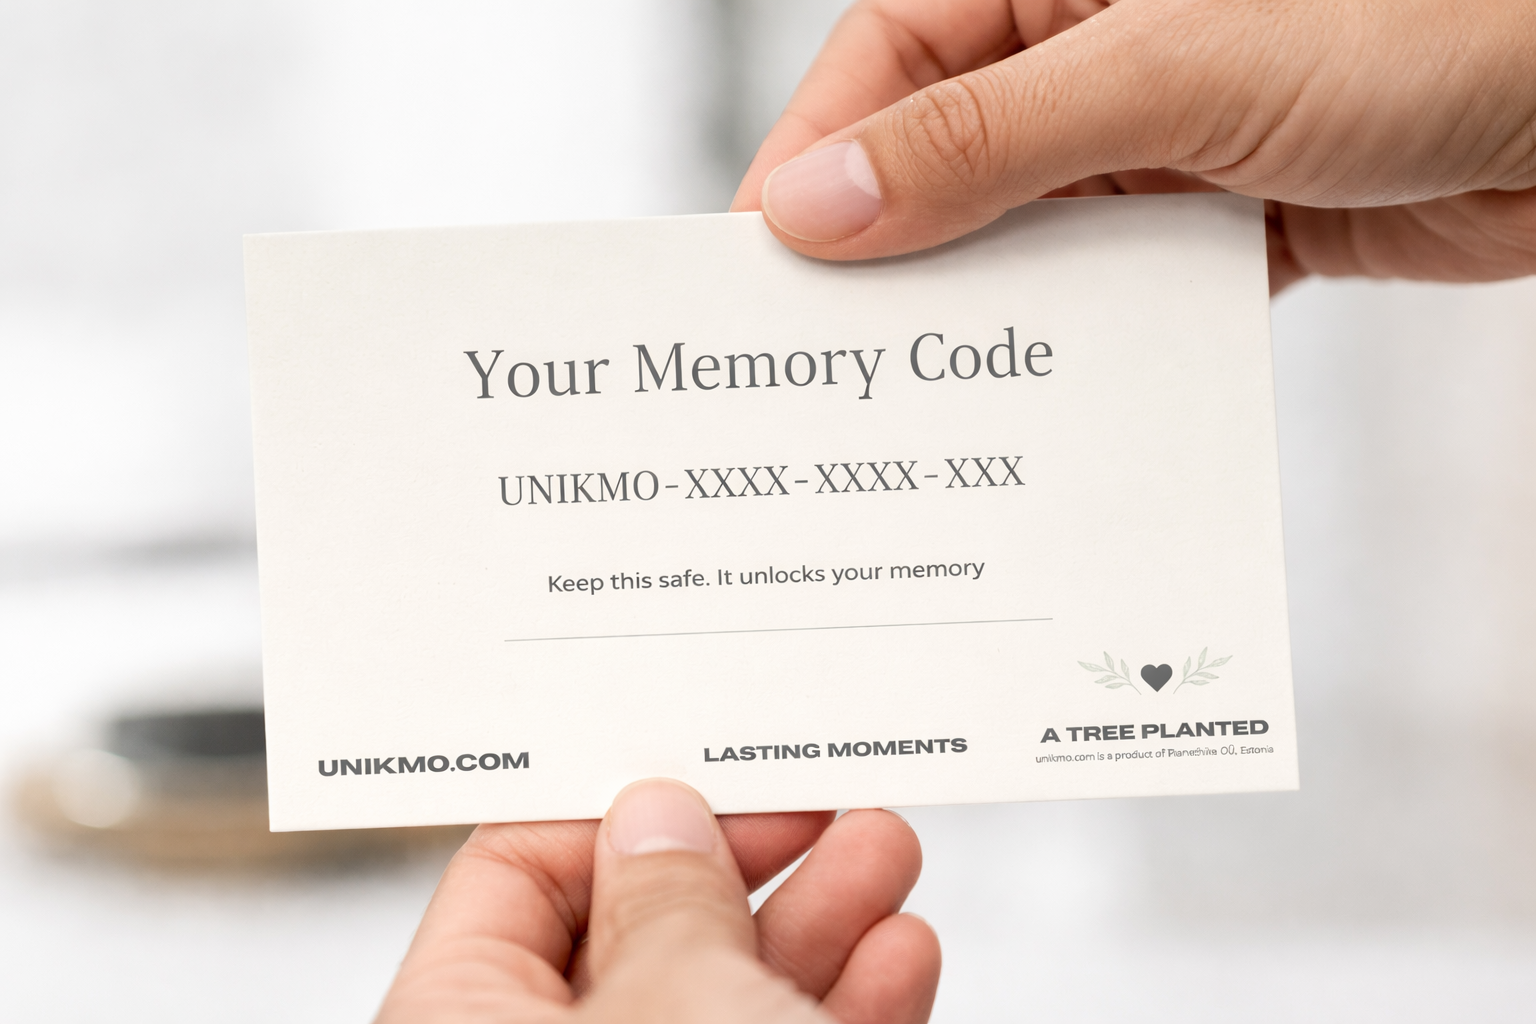
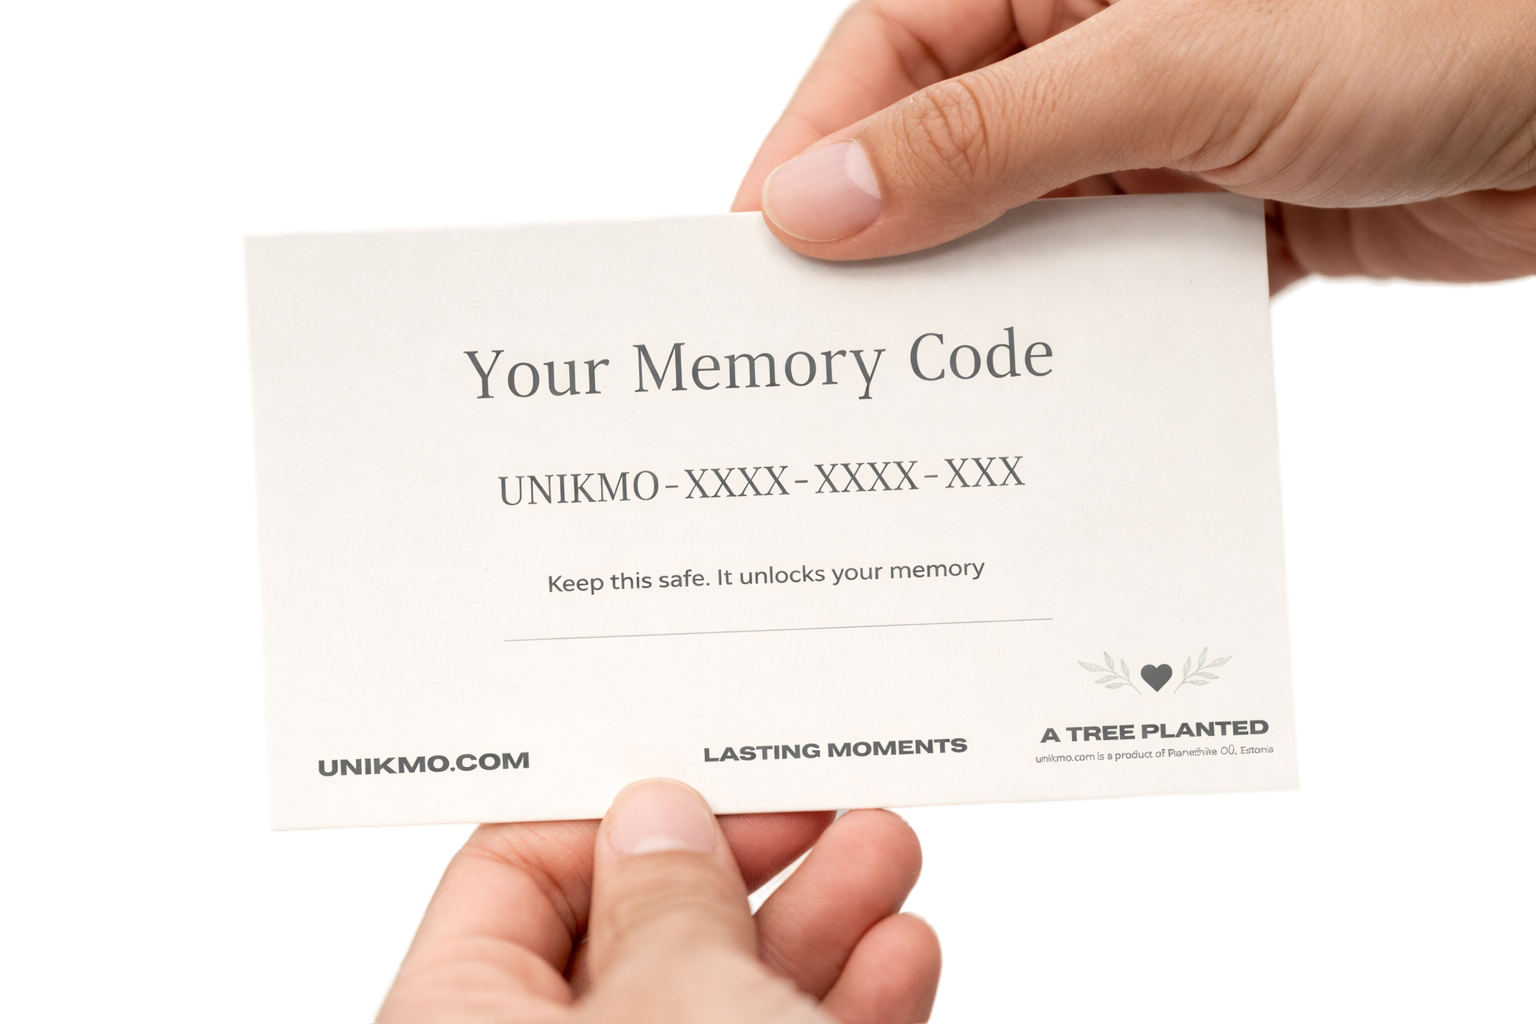
...

diff --git a/app/page.tsx b/app/page.tsx
@@ -14,7 +14,7 @@ export default function LandingPage() {
         <EmotionalPositioning />
         <HowItWorks />
         <ProductExperience />
-        <StoryInEveryKey />
+        {/* <StoryInEveryKey /> */}
         <SocialProof />
         <BrandStory />
         <FinalCta />
@@ -93,7 +93,7 @@ function SiteHeader() {
               className="text-[10px] sm:text-xs font-medium text-[#1E1B18]/55 hover:text-[#1E1B18] transition-all duration-300 hover:-translate-x-1"
               href="#shop"
             >
-              Shop
+              Contact
             </a>
           </nav>
         </div>
@@ -151,7 +151,7 @@ function Hero() {
             <div className="flex justify-center lg:justify-start items-end">
               <div className="relative w-[90%] sm:w-[80%] lg:w-[115%] xl:w-[125%] aspect-[16/11] lg:-ml-4 xl:-ml-8">
                 <Image
-                  src="/heroimage1.png"
+                  src="/heroimage.png"
                   alt="Unikmo Card in Hand"
                   fill
                   priority
@@ -259,14 +259,18 @@ function StoryIn() {
 
   const items = products.map((product) => {
     let subtitle = 'A small moment, beautifully delivered';
+    let tierLabel = 'The Spark';
     if (product.title.toLowerCase().includes('4') || product.title.toLowerCase().includes('four')) {
       subtitle = 'A collection of memories';
+      tierLabel = 'The Journey';
     } else if (product.title.toLowerCase().includes('7') || product.title.toLowerCase().includes('seven')) {
       subtitle = 'A story told over time';
+      tierLabel = 'The History';
     }
     return {
       product,
       title: product.title,
+      tierLabel,
       subtitle,
       img: product.image || '/placeholder-product.png',
       imageAlt: product.imageAlt || product.title,
@@ -299,98 +303,113 @@ function StoryIn() {
 
       <div className="relative z-10">
         <div className="max-w-7xl mx-auto px-4 sm:px-6 lg:px-8">
-          {/* 1. Main Title: Space reduced to mb-4 */}
-          <h2 className="text-center font-serif text-[22px] sm:text-[28px] lg:text-[34px] text-[#2D2926] mb-4 tracking-tight animate-on-scroll opacity-0 translate-y-4 transition-all duration-700">
-            A Story in Every Key
+          <h2 className="text-center font-serif text-[24px] sm:text-[30px] lg:text-[38px] text-[#2D2926] mb-8 sm:mb-10 tracking-tight animate-on-scroll opacity-0 translate-y-4 transition-all duration-700">
+            CREATE YOUR MOMENT
           </h2>
+        </div>
 
-          <div className="flex flex-col lg:grid lg:grid-cols-12 gap-6 lg:gap-8">
-            {/* Left Side: Images Section */}
-            <div className="lg:col-span-9 space-y-4">
-              {loading ? (
-                <div className="grid grid-cols-1 sm:grid-cols-3 gap-4 lg:gap-6">
-                  {[1, 2, 3].map((idx) => (
-                    <div key={idx} className="text-center">
-                      <div className="relative mx-auto h-[350px] sm:h-[400px] lg:h-[480px] xl:h-[520px] w-full mb-2 bg-[#2D2926]/5 animate-pulse rounded-lg" />
-                    </div>
-                  ))}
-                </div>
-              ) : items.length > 0 ? (
-                <div className="grid grid-cols-1 sm:grid-cols-3 gap-4 lg:gap-6">
-                  {items.map((i, idx) => (
-  <button
-    type="button"
-    key={i.product.id}
-    onClick={() => setSelectedProduct({ product: i.product, subtitle: i.subtitle, img: i.img, imageAlt: i.imageAlt })}
-    className={`text-center group transition-all duration-700 cursor-pointer w-full border-0 bg-transparent p-0 ${
-      productsRevealed ? 'opacity-100 translate-y-0' : 'opacity-0 translate-y-6'
-    }`}
-    style={{ transitionDelay: productsRevealed ? `${idx * 80}ms` : undefined }}
-  >
-    {/* MB-0 to ensure no bottom margin from image container */}
-    <div className="relative mx-auto h-[350px] sm:h-[400px] lg:h-[480px] xl:h-[520px] w-full max-w-full mb-0">
-      <Image
-        src={i.img}
-        alt={i.imageAlt || i.title}
-        fill
-        className="object-contain drop-shadow-[0_20px_25px_rgba(0,0,0,0.15)] group-hover:scale-105 transition-transform duration-500"
-        sizes="(min-width: 1280px) 450px, (min-width: 1024px) 400px, (min-width: 640px) 350px, 300px"
-        priority={idx < 3}
-      />
-    </div>
-    
-    {/* Increased negative margin (mt-[-15px] to mt-[-25px]) to pull title UP */}
-    <h4 className="font-serif text-[18px] sm:text-[19px] lg:text-[21px] text-[#2D2926] font-medium leading-tight mt-[-55px] sm:mt-[-55px] lg:mt-[-60px] relative z-20">
-      {i.title}
-    </h4>
-    
-    <p className="mt-1 text-[13px] sm:text-[14px] lg:text-[15px] text-[#2D2926]/60 leading-relaxed max-w-[200px] mx-auto">
-      {i.subtitle}
-    </p>
-  </button>
-))}
-                </div>
-              ) : null}
-
-              {/* Action Buttons Area */}
-              <div className="space-y-4 pt-2">
-                <div className="flex justify-center">
-                  <a
-                    className="inline-flex items-center justify-center rounded-sm bg-[#2D2926] px-8 sm:px-10 py-3 text-[9px] sm:text-[10px] font-semibold tracking-[0.2em] sm:tracking-[0.25em] uppercase text-white hover:bg-black transition-colors duration-300 shadow-sm"
-                    href="#shop"
-                  >
-                    CREATE YOUR MOMENT
-                  </a>
-                </div>
-
-                <div className="flex flex-wrap items-center justify-center gap-x-6 sm:gap-x-8 gap-y-3 pt-4 border-t border-[#2D2926]/10">
-                  {trustItems.map((t) => (
-                    <div key={t.label} className="flex items-center gap-2">
-                      <span className="text-[#2D2926]/50">{t.icon}</span>
-                      <span className="text-[10px] sm:text-[11px] text-[#2D2926]/70 font-medium tracking-wide">{t.label}</span>
-                    </div>
-                  ))}
-                </div>
+          {/* Outside max-w-7xl so row can be 1400px and containerW reaches ~460 (log showed 341) */}
+          <div className="w-full max-w-[1600px] mx-auto px-4 sm:px-6 lg:px-8 space-y-6">
+            {loading ? (
+              <div className="grid grid-cols-1 sm:grid-cols-3 gap-10 lg:gap-10">
+                {[1, 2, 3].map((idx) => (
+                  <div key={idx} className="text-center px-4">
+                    <div className="relative mx-auto w-full max-w-[460px] sm:max-w-[500px] lg:max-w-[560px] aspect-[3/2] mb-6 bg-[#2D2926]/5 animate-pulse rounded-lg" />
+                  </div>
+                ))}
               </div>
-            </div>
+            ) : items.length > 0 ? (
+              <div className="grid grid-cols-1 sm:grid-cols-3 gap-10 lg:gap-10">
+                {items.map((i, idx) => (
+                  <button
+                    type="button"
+                    key={i.product.id}
+                    onClick={() => setSelectedProduct({ product: i.product, subtitle: i.subtitle, img: i.img, imageAlt: i.imageAlt })}
+                    className={`text-center group transition-all duration-700 cursor-pointer w-full border-0 bg-transparent p-0 px-4 ${
+                      productsRevealed ? 'opacity-100 translate-y-0' : 'opacity-0 translate-y-6'
+                    }`}
+                    style={{ transitionDelay: productsRevealed ? `${idx * 80}ms` : undefined }}
+                  >
+                    <p className="text-[11px] sm:text-[12px] lg:text-[13px] uppercase tracking-[0.2em] text-[#2D2926]/50 font-medium mb-4">
+                      {i.tierLabel}
+                    </p>
+                    <div
+                      className={`relative mx-auto w-full max-w-[460px] sm:max-w-[500px] lg:max-w-[560px] aspect-[3/2] mb-6 bg-[#FDF9F5] ${idx === 0 ? 'mt-[43px]' : ''}`}
+                      data-debug-product-img-wrap
+                    >
+                      {/* Plain img with absolute fill so it actually scales with container (no Next/Image limit) */}
+                      {/* First product image is 1.81 aspect; container 3:2 — use object-cover so it fills like 2nd/3rd (log evidence) */}
+                      {/* eslint-disable-next-line @next/next/no-img-element */}
+                      <img
+                        src={i.img}
+                        alt={i.imageAlt || i.title}
+                        className={`absolute inset-0 w-full h-full object-center drop-shadow-[0_14px_18px_rgba(0,0,0,0.12)] group-hover:scale-105 transition-transform duration-500 ${idx === 0 ? 'object-cover object-[50%_85%]' : 'object-contain'}`}
+                        loading={idx < 3 ? 'eager' : 'lazy'}
+                        data-debug-product-img
+                        onLoad={(e) => {
+                          const el = e.currentTarget;
+                          const wrap = el.closest('[data-debug-product-img-wrap]');
+                          const cw = wrap ? (wrap as HTMLElement).clientWidth : 0;
+                          const ch = wrap ? (wrap as HTMLElement).clientHeight : 0;
+                          const iw = el.naturalWidth;
+                          const ih = el.naturalHeight;
+                          const dw = el.clientWidth;
+                          const dh = el.clientHeight;
+                          const ratio = iw && ih ? (iw / ih).toFixed(2) : '';
+                          const wrapRatio = cw && ch ? (cw / ch).toFixed(2) : '';
+                          // #region agent log
+                          fetch('http://127.0.0.1:7551/ingest/bcc1a6d0-5b66-4a5a-b6f3-20ab45040c4a',{method:'POST',headers:{'Content-Type':'application/json','X-Debug-Session-Id':'59ad63'},body:JSON.stringify({sessionId:'59ad63',location:'page.tsx:product-img-onLoad',message:'Product image dimensions',data:{productIndex:idx,tierLabel:i.tierLabel,containerW:cw,containerH:ch,imgNaturalW:iw,imgNaturalH:ih,imgDisplayW:dw,imgDisplayH:dh,imgAspectRatio:ratio,containerAspectRatio:wrapRatio},timestamp:Date.now()})}).catch(()=>{});
+                          // #endregion
+                        }}
+                      />
+                    </div>
+                    <h4 className="font-serif text-[18px] sm:text-[20px] lg:text-[22px] text-[#2D2926] font-medium leading-tight">
+                      {i.title}
+                    </h4>
+                    <p className="mt-2 text-[14px] sm:text-[15px] lg:text-[16px] text-[#2D2926]/60 leading-relaxed max-w-[220px] mx-auto">
+                      {i.subtitle}
+                    </p>
+                  </button>
+                ))}
+              </div>
+            ) : null}
 
-            {/* Right Side: Text Section */}
-            <div className="lg:col-span-3 flex flex-col justify-end pb-8 sm:pb-12 lg:pb-16 text-center lg:text-left animate-on-scroll opacity-0 translate-y-6 transition-all duration-700">
-              <div className="max-w-xs mx-auto lg:mx-0 lg:pl-6 border-l-0 lg:border-l lg:border-[#2D2926]/10 lg:pl-8">
-                <h3 className="font-serif text-[18px] sm:text-[22px] lg:text-[26px] text-[#2D2926] leading-[1.12] mb-3 lg:mb-4">
-                  Rooted in Reality
-                </h3>
-                <div className="space-y-2 text-[13px] sm:text-[14px] lg:text-[15px] leading-relaxed text-[#2D2926]/75 font-light">
-                  <p>For every key you hold, we plant a tree.</p>
-                  <p>
-                    We believe in preserving your memories and the world they were
-                    made in. A legacy that lives in the cloud, rooted in the earth.
-                  </p>
-                </div>
+            {/* CTA + trust row */}
+            <div className="space-y-6 pt-8 sm:pt-10">
+              <div className="flex justify-center">
+                <a
+                  className="inline-flex items-center rounded-sm bg-[#2D2926] px-8 sm:px-10 py-3 text-[9px] sm:text-[10px] font-semibold tracking-[0.2em] uppercase text-white hover:bg-black transition-colors"
+                  href="#shop"
+                >
+                  CREATE YOUR MOMENT
+                </a>
+              </div>
+              <div className="flex flex-wrap items-center justify-center gap-x-6 gap-y-3 pt-4 border-t border-[#2D2926]/10">
+                {trustItems.map((t) => (
+                  <div key={t.label} className="flex items-center gap-2">
+                    <span className="text-[#2D2926]/50">{t.icon}</span>
+                    <span className="text-[10px] sm:text-[11px] text-[#2D2926]/70 font-medium tracking-wide">{t.label}</span>
+                  </div>
+                ))}
               </div>
             </div>
           </div>
-        </div>
+
+          {/* Rooted in Reality */}
+          <div className="max-w-7xl mx-auto px-4 sm:px-6 lg:px-8 mt-14 sm:mt-16 lg:mt-20 text-center">
+            <div className="max-w-2xl mx-auto animate-on-scroll opacity-0 translate-y-6 transition-all duration-700">
+            <h3 className="font-serif text-[20px] sm:text-[24px] lg:text-[28px] text-[#2D2926] leading-[1.12] mb-4">
+              Rooted in Reality
+            </h3>
+            <div className="space-y-3 text-[15px] sm:text-[16px] lg:text-[17px] leading-relaxed text-[#2D2926]/75 font-light">
+              <p>For every key you hold, we plant a tree.</p>
+              <p>
+                We believe in preserving your memories and the world they were
+                made in. A legacy that lives in the cloud, rooted in the earth.
+              </p>
+            </div>
+            </div>
+          </div>
       </div>
 
       {selectedProduct && (
